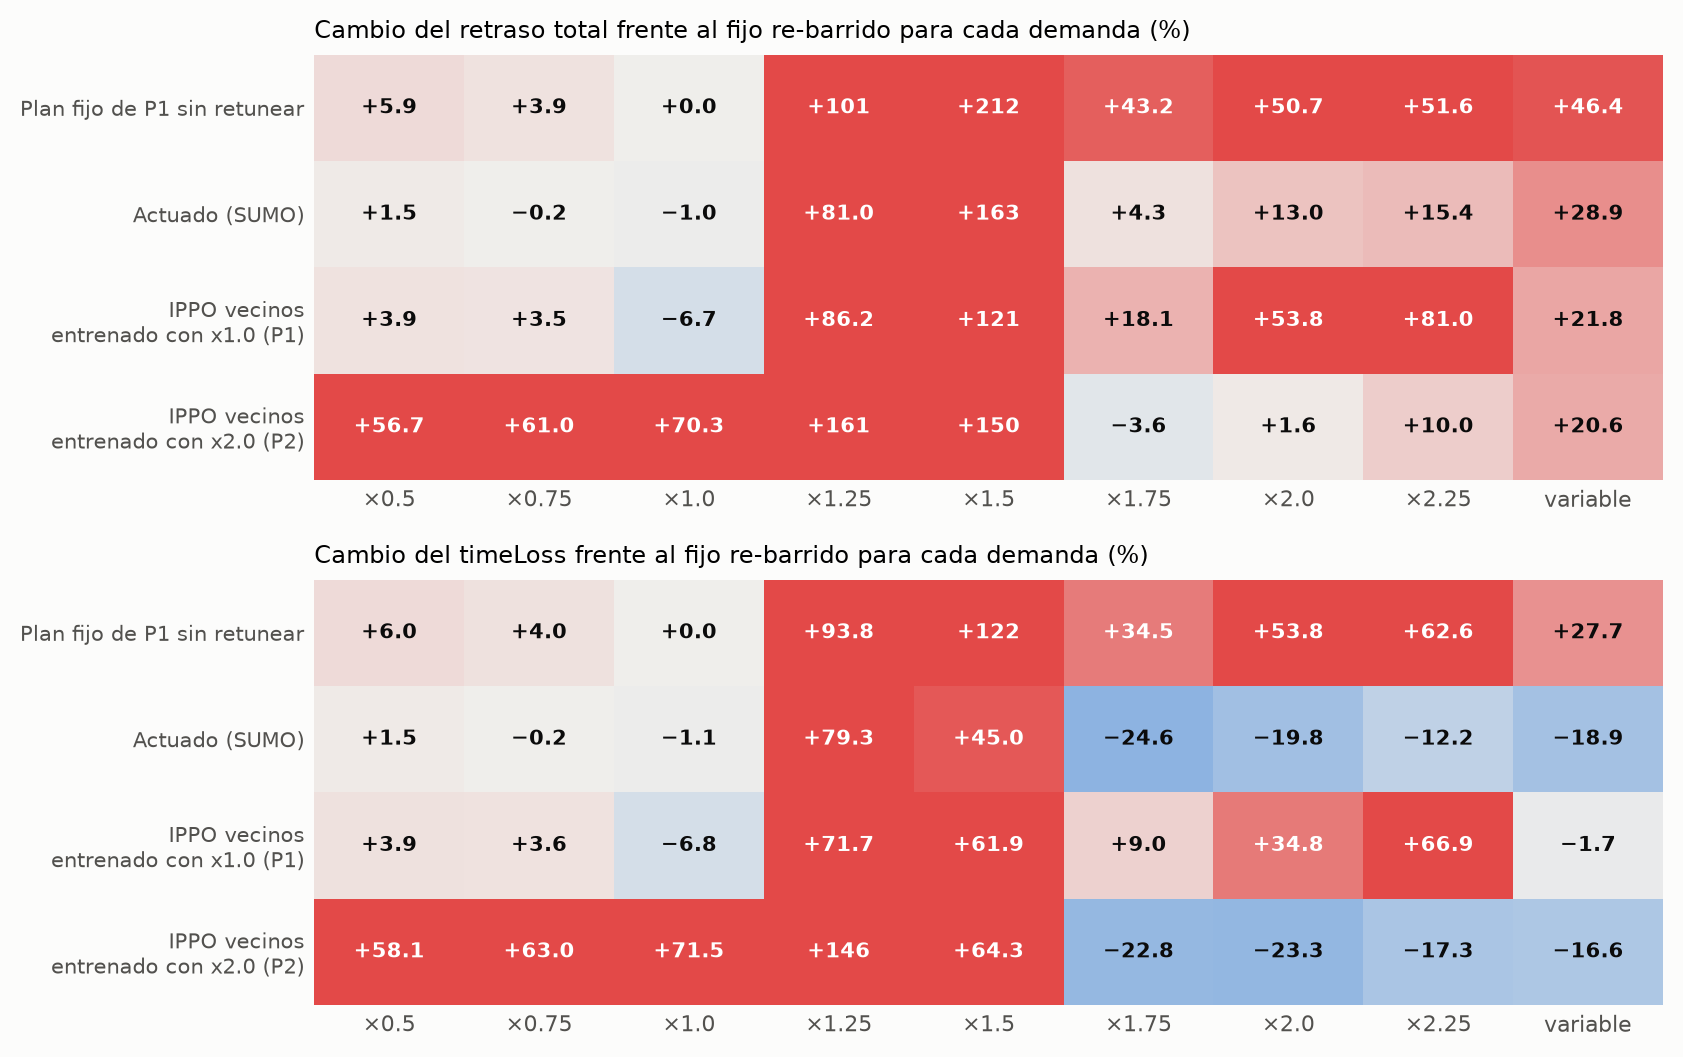
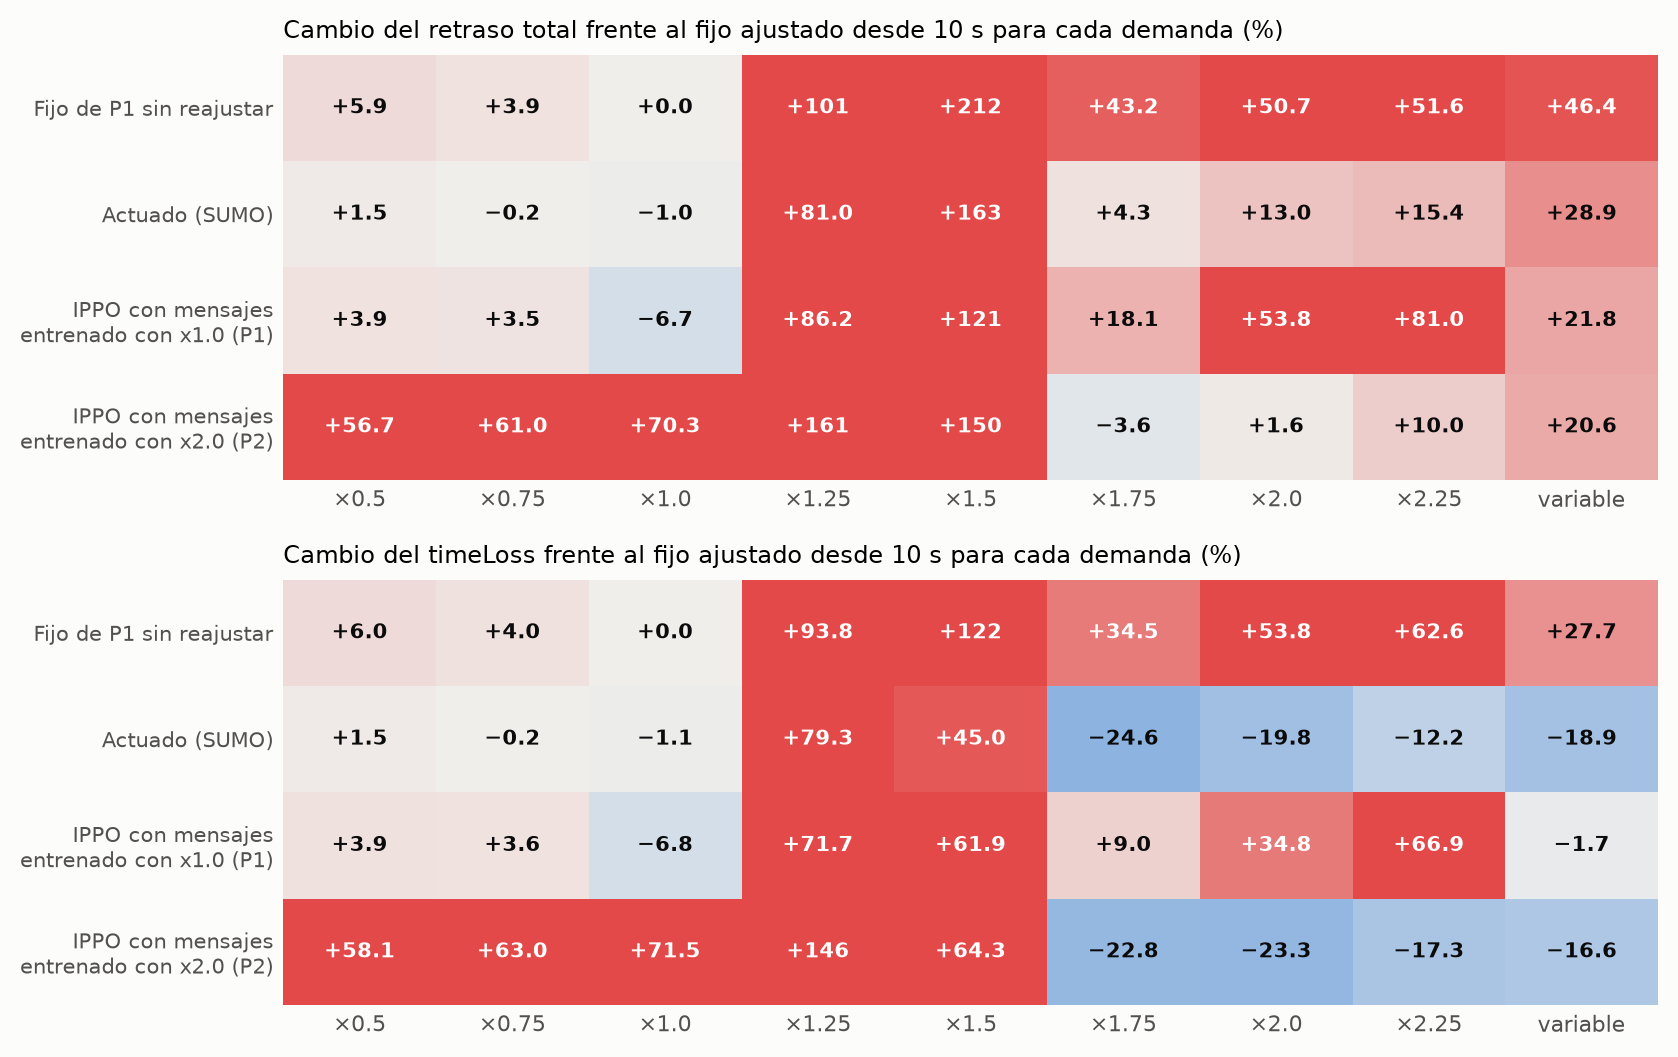
tesis: nombres del glosario en barrido_demanda.py y graficar.py, con su tabla y sus figuras

diff --git a/barrido_demanda.py b/barrido_demanda.py
@@ -12,11 +12,14 @@ red de P1 (dos semaforos, un carril) y toda la demanda de corredor.rou.xml x f, 
 escenarios_plan2.FACTORES_DEMANDA (0.5 a 2.25), mas un perfil que cambia dentro de la hora
 (corredor_var: bloques de 10 min con x1.0, 1.5, 2.0, 2.0, 1.5 y 1.0, en promedio x1.5). Brazos por
 nivel, todos con las semillas de evaluacion 1001-1030:
-  fijo      el fijo re-barrido para ese nivel (barrer_fijo.py, semillas 2001-2003, retraso total)
-  fijo_p1   el programa fijo de P1 sin retunear (lo que hace un plan de ciudad que no se ajusta)
+  fijo      el fijo ajustado desde 10 s para ese nivel (barrer_fijo.py, semillas 2001-2003, retraso total)
+  fijo_p1   el programa fijo de P1 sin reajustar (lo que hace un plan de ciudad que no se ajusta)
   actuado   el actuado de SUMO
-  ippo_vecinos_s4042 / ippo_vecinos_s2042   las politicas publicadas de IPPO vecinos en P1 (entrenada
-            con x1.0) y en P2 (x2.0), sin reentrenar
+  ippo_vecinos_s4042 / ippo_vecinos_s2042   las versiones evaluadas de IPPO con mensajes en P1
+            (entrenada con x1.0) y en P2 (x2.0), sin reentrenar
+Nombres: los del glosario de la tesis (entrega 3, 23.10.2026); antes "fijo re-barrido", "sin retunear" e
+"IPPO vecinos". En la tabla, un cambio no significativo (Wilcoxon p >= 0.05) va entre parentesis y el
+caption lo dice en palabras; antes llevaba el superindice ns. Las cifras no cambian.
 Los trabajos de la cola (generar_trabajos.py) escriben demanda/eval_<esc>_<brazo>.csv. Con x1.0 y
 x2.0 los brazos deben dar, semilla a semilla, lo mismo que P1 y P2 (parciales/eval_corredor_*.csv y
 eval_corredor_alta_*.csv): resumir lo comprueba. Salidas de resumir:
@@ -39,9 +42,9 @@ sys.path.insert(0, AQUI)
 import escenarios_plan2 as ep            # noqa: E402
 
 PERFIL = (1.0, 1.5, 2.0, 2.0, 1.5, 1.0)     # corredor_var: factor por bloque de 600 s
-BRAZOS = [("fijo_p1", "Plan fijo de P1 sin retunear"), ("actuado", "Actuado (SUMO)"),
-          ("ippo_vecinos_s4042", "IPPO vecinos entrenado con x1.0 (P1)"),
-          ("ippo_vecinos_s2042", "IPPO vecinos entrenado con x2.0 (P2)")]
+BRAZOS = [("fijo_p1", "Fijo de P1 sin reajustar"), ("actuado", "Actuado (SUMO)"),
+          ("ippo_vecinos_s4042", "IPPO con mensajes entrenado con x1.0 (P1)"),
+          ("ippo_vecinos_s2042", "IPPO con mensajes entrenado con x2.0 (P2)")]
 METRICAS = [("retraso_total_prom", "retraso total"), ("timeloss_prom", "timeLoss")]
 N_BOOT = 10000
 
@@ -234,11 +237,12 @@ def resumir(tesis):
 
 
 def celda(fila, m):
+    """Cambio % con un decimal; entre parentesis si no es significativo (Wilcoxon p >= 0.05)."""
     d = fila.get(f"delta_{m}")
     if d in (None, ""):
         return "--"
     txt = f"{d:+.1f}".replace("-", "$-$")
-    return txt + ("" if fila[f"p_{m}"] < 0.05 else r"$^{\mathrm{ns}}$")
+    return txt if fila[f"p_{m}"] < 0.05 else f"({txt})"
 
 
 def tabla_tex(filas, ruta):
@@ -262,14 +266,14 @@ def tabla_tex(filas, ruta):
         r"Demanda & \makecell{Fijo\\(s/veh)} & " + cab + " & " + cab + r" \\", r"\midrule"]
         + lineas + [r"\bottomrule", r"\end{tabular}",
                     r"\caption[Barrido de demanda en el corredor]{Barrido de demanda en la red de P1: cambio "
-                    r"del retraso de cada control frente al fijo re-barrido para ese nivel (semillas de "
-                    r"evaluación 1001 a 1030, IC95\,\% bootstrap pareado; ns: Wilcoxon $p \geq 0.05$). "
-                    r"Fijo: "
-                    r"retraso total del fijo re-barrido. Plan de P1: el programa fijo de P1 sin retunear. "
-                    r"IPPO P1 y P2: las políticas publicadas de IPPO vecinos entrenadas con $\times$1.0 y "
-                    r"$\times$2.0, sin reentrenar. Variable: bloques de 10~min con $\times$1.0, 1.5, "
-                    r"2.0, 2.0, "
-                    r"1.5 y 1.0.}", r"\label{tab:plan2-demanda}", r"\end{table}"])
+                    r"del retraso de cada control frente al fijo ajustado desde 10~s para ese nivel "
+                    r"(semillas de evaluación 1001 a 1030, IC95\,\% bootstrap pareado). Entre paréntesis, "
+                    r"los cambios que no son significativos: su $p$ de Wilcoxon pareado es de 0.05 o más. "
+                    r"Fijo: retraso total del fijo ajustado desde 10~s. Plan de P1: el programa fijo de P1 "
+                    r"sin volver a ajustar. IPPO P1 y P2: las versiones evaluadas de IPPO con mensajes "
+                    r"entrenadas con $\times$1.0 y $\times$2.0, sin reentrenar. Variable: bloques de 10~min "
+                    r"con $\times$1.0, 1.5, 2.0, 2.0, 1.5 y 1.0.}", r"\label{tab:plan2-demanda}",
+                    r"\end{table}"])
     with open(ruta, "w", encoding="utf-8") as fh:
         fh.write(texto + "\n")
     print("Escrito", ruta)
@@ -303,8 +307,8 @@ def figura(filas, ruta):
         ax.tick_params(length=0)
         for s in ax.spines.values():
             s.set_visible(False)
-        ax.set_title(f"Cambio del {nombre} frente al fijo re-barrido para cada demanda (%)", fontsize=8.6,
-                     loc="left")
+        ax.set_title(f"Cambio del {nombre} frente al fijo ajustado desde 10 s para cada demanda (%)",
+                     fontsize=8.6, loc="left")
     fig.tight_layout()
     fig.savefig(ruta, dpi=200, bbox_inches="tight", facecolor="#fcfcfb")
     plt.close(fig)

diff --git a/TESIS/secciones/tablas/demanda_corredor.tex b/TESIS/secciones/tablas/demanda_corredor.tex
@@ -1,4 +1,4 @@
-% Generado por barrido_demanda.py resumir. No editar a mano. [23.10.2026: caption pasado a mano a los nombres del glosario (fijo ajustado desde 10 s, sin volver a ajustar, versiones evaluadas de IPPO con mensajes) porque barrido_demanda.py no se podia tocar mientras corria la cola; al actualizar el script, debe escribir este mismo caption]
+% Generado por barrido_demanda.py resumir. No editar a mano.
 \begin{table}[H]
 \setstretch{1}
 \centering
@@ -11,16 +11,16 @@
 Demanda & \makecell{Fijo\\(s/veh)} & \makecell{Plan\\de P1} & \makecell{Actuado} & \makecell{IPPO\\P1} & \makecell{IPPO\\P2} & \makecell{Plan\\de P1} & \makecell{Actuado} & \makecell{IPPO\\P1} & \makecell{IPPO\\P2} \\
 \midrule
 $\times$0.5 & 15.9 & +5.9 & +1.5 & +3.9 & +56.7 & +6.0 & +1.5 & +3.9 & +58.1 \\
-$\times$0.75 & 18.7 & +3.9 & $-$0.2$^{\mathrm{ns}}$ & +3.5 & +61.0 & +4.0 & $-$0.2$^{\mathrm{ns}}$ & +3.6 & +63.0 \\
-$\times$1.0 & 21.7 & +0.0$^{\mathrm{ns}}$ & $-$1.0$^{\mathrm{ns}}$ & $-$6.7 & +70.3 & +0.0$^{\mathrm{ns}}$ & $-$1.1$^{\mathrm{ns}}$ & $-$6.8 & +71.5 \\
+$\times$0.75 & 18.7 & +3.9 & ($-$0.2) & +3.5 & +61.0 & +4.0 & ($-$0.2) & +3.6 & +63.0 \\
+$\times$1.0 & 21.7 & (+0.0) & ($-$1.0) & $-$6.7 & +70.3 & (+0.0) & ($-$1.1) & $-$6.8 & +71.5 \\
 $\times$1.25 & 29.1 & +100.6 & +81.0 & +86.2 & +160.9 & +93.8 & +79.3 & +71.7 & +146.1 \\
 $\times$1.5 & 57.5 & +211.9 & +163.3 & +121.2 & +149.9 & +122.1 & +45.0 & +61.9 & +64.3 \\
 $\times$1.75 & 259.6 & +43.2 & +4.3 & +18.1 & $-$3.6 & +34.5 & $-$24.6 & +9.0 & $-$22.8 \\
 $\times$2.0 & 394.3 & +50.7 & +13.0 & +53.8 & +1.6 & +53.8 & $-$19.8 & +34.8 & $-$23.3 \\
 $\times$2.25 & 552.2 & +51.6 & +15.4 & +81.0 & +10.0 & +62.6 & $-$12.2 & +66.9 & $-$17.3 \\
-variable & 180.2 & +46.4 & +28.9 & +21.8 & +20.6 & +27.7 & $-$18.9 & $-$1.7$^{\mathrm{ns}}$ & $-$16.6 \\
+variable & 180.2 & +46.4 & +28.9 & +21.8 & +20.6 & +27.7 & $-$18.9 & ($-$1.7) & $-$16.6 \\
 \bottomrule
 \end{tabular}
-\caption[Barrido de demanda en el corredor]{Barrido de demanda en la red de P1: cambio del retraso de cada control frente al fijo ajustado desde 10~s para ese nivel (semillas de evaluación 1001 a 1030, IC95\,\% bootstrap pareado; ns: Wilcoxon $p \geq 0.05$). Fijo: retraso total del fijo ajustado desde 10~s. Plan de P1: el programa fijo de P1 sin volver a ajustar. IPPO P1 y P2: las versiones evaluadas de IPPO con mensajes entrenadas con $\times$1.0 y $\times$2.0, sin reentrenar. Variable: bloques de 10~min con $\times$1.0, 1.5, 2.0, 2.0, 1.5 y 1.0.}
+\caption[Barrido de demanda en el corredor]{Barrido de demanda en la red de P1: cambio del retraso de cada control frente al fijo ajustado desde 10~s para ese nivel (semillas de evaluación 1001 a 1030, IC95\,\% bootstrap pareado). Entre paréntesis, los cambios que no son significativos: su $p$ de Wilcoxon pareado es de 0.05 o más. Fijo: retraso total del fijo ajustado desde 10~s. Plan de P1: el programa fijo de P1 sin volver a ajustar. IPPO P1 y P2: las versiones evaluadas de IPPO con mensajes entrenadas con $\times$1.0 y $\times$2.0, sin reentrenar. Variable: bloques de 10~min con $\times$1.0, 1.5, 2.0, 2.0, 1.5 y 1.0.}
 \label{tab:plan2-demanda}
 \end{table}

diff --git a/graficar.py b/graficar.py
@@ -21,10 +21,14 @@ Con politicas IPPO (resultados_<esc>_ippo_<variante>_s<base>.csv) anade ademas:
   fig_<esc>_fases.png        verde de la avenida por semaforo en una ventana de 5 min (desfase)
   fig_<esc>_spillback.png    spillback, cola maxima en enlace y no terminados por brazo
 Los brazos IPPO que entran en las figuras son la politica mediana de cada variante.
+Nombres de los controles: los del glosario de la tesis (entrega 3, ajuste A8, 23.10.2026), como en
+tablas_tex.py: IPPO sin mensajes, IPPO con mensajes e IPPO con penalizacion de spillback (antes IPPO
+local, vecinos y spill). Solo cambian los rotulos; los datos y el dibujo son los mismos.
 """
 import os
 import csv
 import sys
+import textwrap
 import statistics
 
 import matplotlib
@@ -42,8 +46,8 @@ GRIS_CLARO = "#e6e6e3"
 TINTA = "#0b0b0b"
 TINTA2 = "#52514e"
 NOMBRE = {"fijo": "Tiempo fijo", "actuado": "Actuado (SUMO)", "rl": "Q-learning",
-          "ippo_local": "IPPO local", "ippo_vecinos": "IPPO vecinos", "ippo_spill": "IPPO spill",
-          "ippo_cambio": "IPPO cambio"}
+          "ippo_local": "IPPO sin mensajes", "ippo_vecinos": "IPPO con mensajes",
+          "ippo_spill": "IPPO con penalización de spillback", "ippo_cambio": "IPPO cambio"}
 FASE_AVENIDA = {"corredor": 2, "corredor_alta": 2, "red": 0}   # indice de la fase verde de la avenida
 
 
@@ -59,6 +63,13 @@ def color_de(brazo):
 
 def nombre_de(brazo):
     return NOMBRE.get(variante_de(brazo), brazo)
+
+
+def rotulo_eje(brazo):
+    """Nombre del control bajo el eje x, en lineas cortas: 'IPPO con\\nmensajes',
+    'IPPO con\\npenalización\\nde spillback'; el actuado sin '(SUMO)'."""
+    nombre = nombre_de(brazo).replace(" (SUMO)", "")
+    return "\n".join(textwrap.wrap(nombre, 12)) if nombre.startswith("IPPO ") else nombre
 METRICA = {
     "timeloss_prom": ("Retraso por vehículo (timeLoss)", "s/veh"),
     "espera_prom": ("Espera detenida por vehículo", "s/veh"),
@@ -235,8 +246,7 @@ if evaluacion and len(brazos) >= 2:
         ax.set_title(titulo + sub, loc="left", fontsize=8.5)
         ax.set_ylabel(unidad + (" (eje recortado)" if recortado else ""))
         ax.set_xticks(range(len(brazos)))
-        ax.set_xticklabels([nombre_de(b).replace(" (SUMO)", "").replace("IPPO ", "IPPO\n") for b in brazos],
-                           fontsize=8)
+        ax.set_xticklabels([rotulo_eje(b) for b in brazos], fontsize=8)
         ax.set_xlim(-0.5, len(brazos) - 0.5)
         if recortado:
             margen = (max(todos) - min(todos)) * 0.25
@@ -413,8 +423,7 @@ if evaluacion and any(numero(f.get("spillback_tasa")) for f in evaluacion):
         ax.set_title(titulo, loc="left", fontsize=9)
         ax.set_ylabel(unidad)
         ax.set_xticks(range(len(brazos)))
-        ax.set_xticklabels([nombre_de(b).replace(" (SUMO)", "").replace("IPPO ", "IPPO\n") for b in brazos],
-                           fontsize=7.5)
+        ax.set_xticklabels([rotulo_eje(b) for b in brazos], fontsize=7.5)
         ax.set_xlim(-0.5, len(brazos) - 0.5)
         ax.set_ylim(bottom=0)
         ax.grid(axis="x", visible=False)

diff --git a/TESIS/secciones/anexo_c_exploratoria.tex b/TESIS/secciones/anexo_c_exploratoria.tex
@@ -256,15 +256,17 @@ semáforos vecinos, e IPPO con penalización de \textit{spillback} le
 agrega el término de \textit{spillback} de la
 Ecuación~\ref{eq:recompensa-u4}, que penaliza la cola de un enlace de
 salida $\ell$ por encima de la mitad de sus plazas por carril,
-$\lfloor K_\ell/2 \rfloor$. Las figuras de este anexo, generadas en esta
-fase, las llaman ``IPPO local'', ``IPPO vecinos'' e ``IPPO spill''. En
+$\lfloor K_\ell/2 \rfloor$. En
 corredor y red, IPPO con penalización de \textit{spillback} se entrenó
 con una sola semilla base como control de no daño: una corrida que
 comprueba que el término no empeora el resultado.
 % glosario (23.10.2026, pasada del glosario, tarea 3f): la prosa usa los nombres del glosario. Las tablas de esta fase
 % (tablas/resumen_u4, cruce_u4, red_u4, corredor_u4, corredor_alta_u4, red_s1 y corredor_s1) se regeneraron el
-% 23.10.2026 con los nombres nuevos; las figuras (fig_red_fases, fig_corredor_fases y fig_corredor_alta_spillback, de
-% graficar.py, 06.09) no, y conservan los rotulos IPPO local, vecinos y spill. Si se regeneran, quitar la frase
+% 23.10.2026 con los nombres nuevos, y las figuras fig_red_fases, fig_corredor_fases y fig_corredor_alta_spillback
+% (graficar.py) tambien, el mismo dia: solo cambian los rotulos (IPPO sin mensajes, IPPO con mensajes e IPPO con
+% penalizacion de spillback en lugar de IPPO local, vecinos y spill); los datos son los mismos (comprobado artista
+% por artista contra las figuras del 06.09, que graficar.py reproducia byte a byte). Por eso se quito la frase que
+% decia que las figuras usaban los nombres anteriores.
 
 Las métricas de corredor se calculan sobre los vehículos de paso, los
 que recorren la avenida de extremo a extremo (Sección~\ref{sec:u3}). Las
